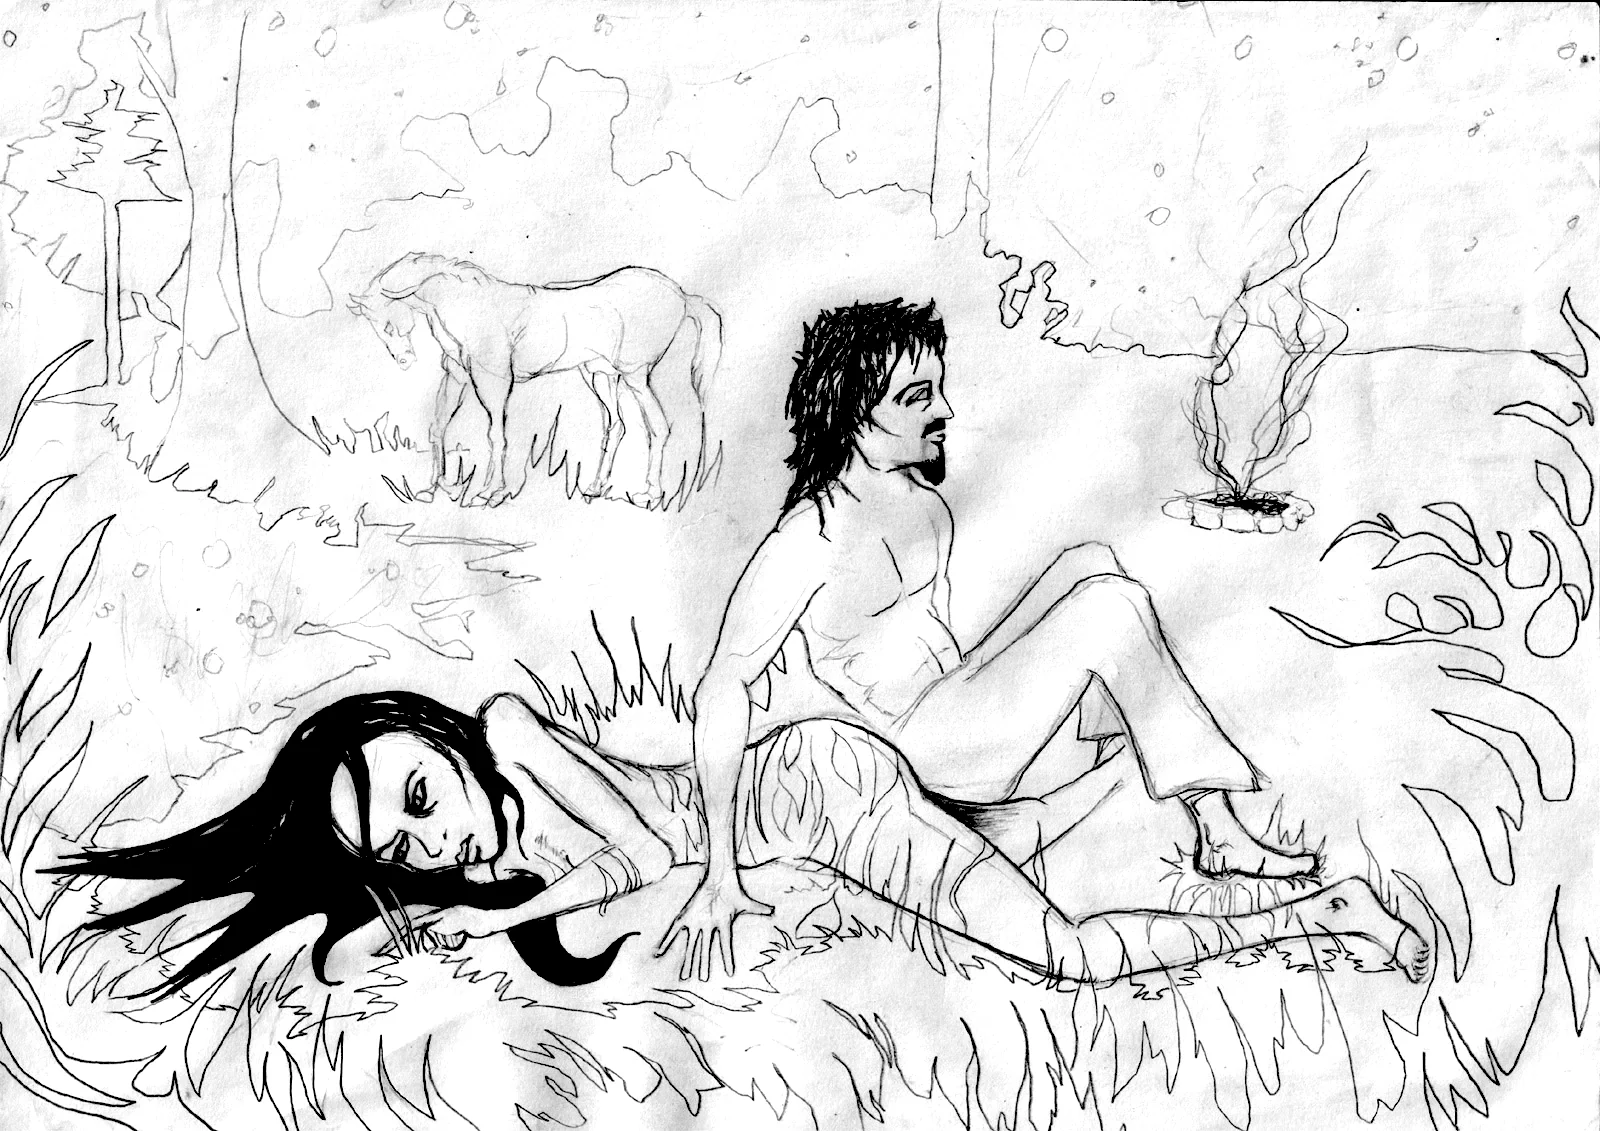
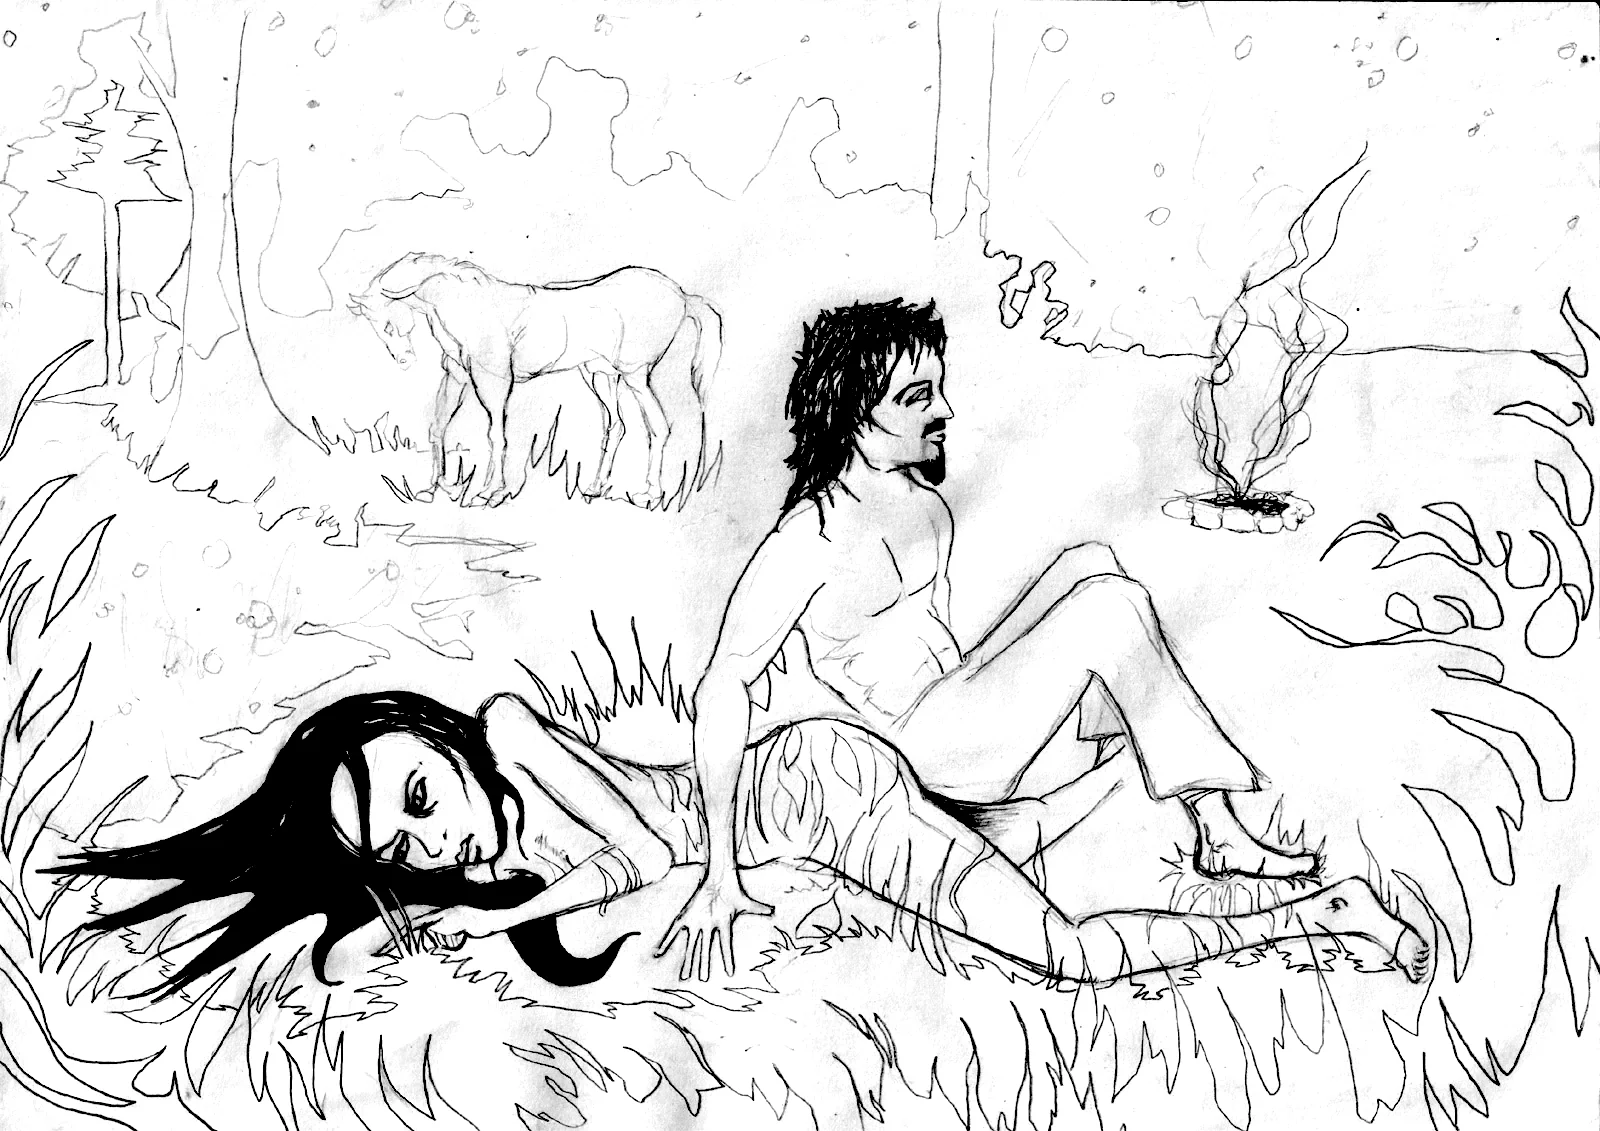
m

Changed region(s): [[0.5938, 0.7118, 0.625, 0.7427]]

diff --git a/art.html b/art.html
@@ -74,12 +74,16 @@
             <figcaption>Sivi dan</figcaption>
           </figure> -->
           <figure class="art-item art-item--portrait"><img loading="lazy" width="1200" height="1586"
-              src="images/art/ona-zivi-na-rubu.webp" alt="Ona živi na rubu" />
+              src="images/art/ona-zivi-na-rubu-2.webp" alt="Ona živi na rubu" />
             <figcaption>Ona živi na rubu</figcaption>
           </figure>
           <figure class="art-item art-item--portrait"><img loading="lazy" width="1200" height="1586"
               src="images/art/ona-zivi-na-rubu-alt.webp" alt="Ona živi na rubu alt" />
             <figcaption>Ona živi na rubu alt</figcaption>
+          </figure>
+          <figure class="art-item"><img loading="lazy" width="1600" height="1131" src="images/art/znam-taj-dan.webp"
+              alt="Znam taj dan" />
+            <figcaption>Znam taj dan</figcaption>
           </figure>
           <figure class="art-item"><img loading="lazy" width="1024" height="722" src="images/art/poznanja.webp"
               alt="Poznanja" />
@@ -89,13 +93,13 @@
               alt="Poznanja - alt verzija" />
             <figcaption>Poznanja alt</figcaption>
           </figure>
-          <figure class="art-item"><img loading="lazy" width="1600" height="1131" src="images/art/znam-taj-dan.webp"
-              alt="Znam taj dan" />
-            <figcaption>Znam taj dan</figcaption>
-          </figure>
           <figure class="art-item"><img loading="lazy" width="1024" height="723" src="images/art/noc-pod-nebom.webp"
               alt="Noć pod nebom" />
             <figcaption>Noć pod nebom</figcaption>
+          </figure>
+          <figure class="art-item"><img loading="lazy" width="1024" height="723" src="images/art/noc-pod-nebom-alt.webp"
+              alt="Noć pod nebom" />
+            <figcaption>Noć pod nebom alt</figcaption>
           </figure>
           <figure class="art-item"><img loading="lazy" src="images/art/obnova-i-izgradnja.webp"
               alt="Obnova i izgradnja" />

diff --git a/README.md b/README.md
@@ -5,17 +5,12 @@ Damjan od Resnika, muzički projekat koji okuplja prijatelje iz kraja i šire.
 ## TODO
 
 - prepoznaj font sa nalepnica
-- organizovati art u podfoldere (albumi, nalepnice...)
-- dodati novo:
-  obnova-i-izgradnja
-  mladifilozof
-  noc-pod-nebom-alt
 
 ČIŠĆENJE SLIKA:
 
-magick ona-zivi-na-rubu-2.webp -colorspace Gray -contrast-stretch 0%x10% ona-zivi-na-rubu-x.webp
-magick ona-zivi-na-rubu-2.webp -colorspace Gray -level 5%,95% -contrast-stretch 0%x5% crtez-print.webp
-magick ona-zivi-na-rubu-2.webp -colorspace Gray -level 5%,95% -median 3 -contrast-stretch 0%x5% crtez-ujednaceno.webp
-magick ona-zivi-na-rubu-2.webp -colorspace Gray -white-threshold 88% crtez-cistiji-jako.webp
-magick ona-zivi-na-rubu-2.webp -colorspace Gray -level 8%,92% -contrast-stretch 0%x3% crtez-print-jako.webp
-magick ona-zivi-na-rubu-2.webp -colorspace Gray -white-threshold 82% ona-zivi-na-rubu-x.webp
+magick noc-pod-nebom-alt.webp -colorspace Gray -contrast-stretch 0%x10% crtez-lagano.webp
+magick noc-pod-nebom-alt.webp -colorspace Gray -level 5%,95% -contrast-stretch 0%x5% crtez-print.webp
+magick noc-pod-nebom-alt.webp -colorspace Gray -level 5%,95% -median 3 -contrast-stretch 0%x5% crtez-ujednaceno.webp
+magick noc-pod-nebom-alt.webp -colorspace Gray -white-threshold 88% crtez-cistiji-jako.webp
+magick noc-pod-nebom-alt.webp -colorspace Gray -level 8%,92% -contrast-stretch 0%x3% crtez-print-jako.webp
+magick noc-pod-nebom-alt.webp -colorspace Gray -white-threshold 82% crtez-xx.webp
